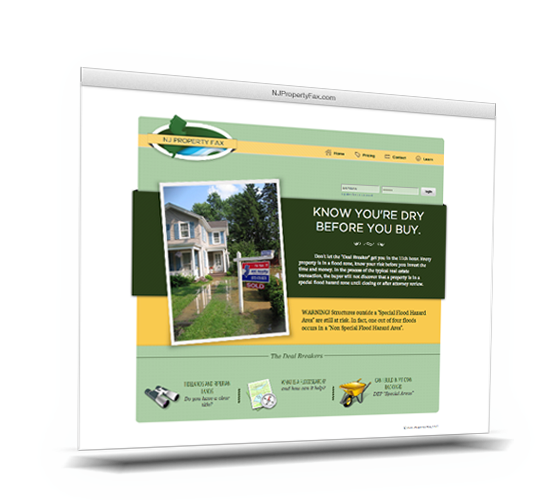
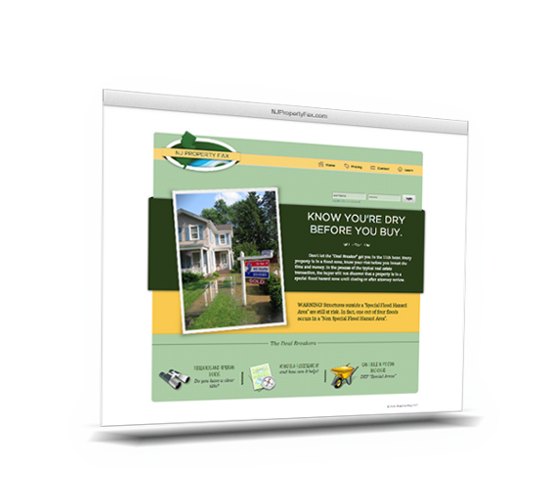
Resized work images, added our-work div, our-work h2, positioning styles for work section

diff --git a/index.html b/index.html
@@ -98,10 +98,10 @@
 		
 		<section id="work" class="clearfix">
 			<div class="content">
-			
+        <div class="our-work">
+          <h2>Our Work</h2>
+        </div>
 				<ul id="slider">
-					
-					
 					<li>
 						<div class="work-item">
 						
@@ -170,28 +170,7 @@
 							<div class="webcapsule-mobile"></div>
 						</div>
 					</li>
-
-			  
 			 </ul>
-				
-			
-				
-				<!-- <div class="our-work right">
-
-					<h2>Our Work</h2>
-				
-					<p class="copy">Lorem ipsum dolor sit amet, consectetur adipisicing elit, sed do eiusmod tempor incididunt ut labore et dolore magna aliqua.</p>
-					
-					<p class="copy">Ut enim ad minim veniam, quis nostrud exercitation ullamco laboris nisi ut aliquip ex ea commodo consequat. Duis aute irure dolor in reprehenderit in voluptate velit esse cillum dolore eu fugiat nulla pariatur.</p>
-					
-					<p class="copy">Excepteur sint occaecat cupidatat non proident, sunt in culpa qui officia deserunt mollit anim id est laborum.</p>
-					
-					<p class="copy">Duis aute irure dolor in reprehenderit in voluptate velit esse cillum dolore eu fugiat nulla pariatur.</p>
-						
-				</div>
-	
-			</div> -->
-			
 
 			</div>			
 		</section>

diff --git a/css/anythingcss/theme-minimalist-round.css b/css/anythingcss/theme-minimalist-round.css
@@ -67,10 +67,9 @@ div.anythingSlider-minimalist-round .back a:hover, div.anythingSlider-minimalist
 
 /* Navigation Links */
 div.anythingSlider-minimalist-round .anythingControls {
-	float: right;
 	position: absolute;
-	bottom: 0;
-	right: 15%;
+	bottom: 15px;
+	right: 75px;
 	z-index: 100;
 	opacity: 0.90;
 	filter: alpha(opacity=90);
@@ -133,7 +132,7 @@ div.anythingSlider-minimalist-round .start-stop {
 
 /* Extra - replace defaults */
 div.anythingSlider-minimalist-round {
-	padding: 6px 30px;
+	padding: 0 30px;
 }
 
 /* text indent moved to span inside "a", for IE7; apparently, a negative text-indent on an "a" link moves the link as well as the text */

diff --git a/css/anythingcss/anythingslider.css b/css/anythingcss/anythingslider.css
@@ -11,7 +11,7 @@
 /* change the ID to match your slider */
 #slider {
 	width: 900px;
-	height: 510px;
+	height: 585px;
 	list-style: none;
 	/* Prevent FOUC (see FAQ page) and keep things readable if javascript is disabled */
 	overflow-y: auto;
@@ -19,6 +19,11 @@
 }
 /* Opera width restriction */
 .anythingBase { max-width: 32766px; }
+
+.anythingSlider, .anythingWindow {
+  height: 585px;
+}
+
 
 /*****************
   SET COLORS HERE

diff --git a/css/style.css b/css/style.css
@@ -365,6 +365,9 @@ header {
 
 .our-work h2 {
 	font-size:50px;
+  position: absolute;
+  right: 76px;
+  top: 0;
 }
 
 .our-work .copy {
@@ -372,10 +375,15 @@ header {
 	margin-left: 90px;
 }
 
+.work-item {
+  padding-top: 115px;
+}
 
 .work-desc {
 	width: 300px;
 	text-align: right;
+  margin-top: -10px;
+  margin-right: 45px;
 }
 
 .comp {
